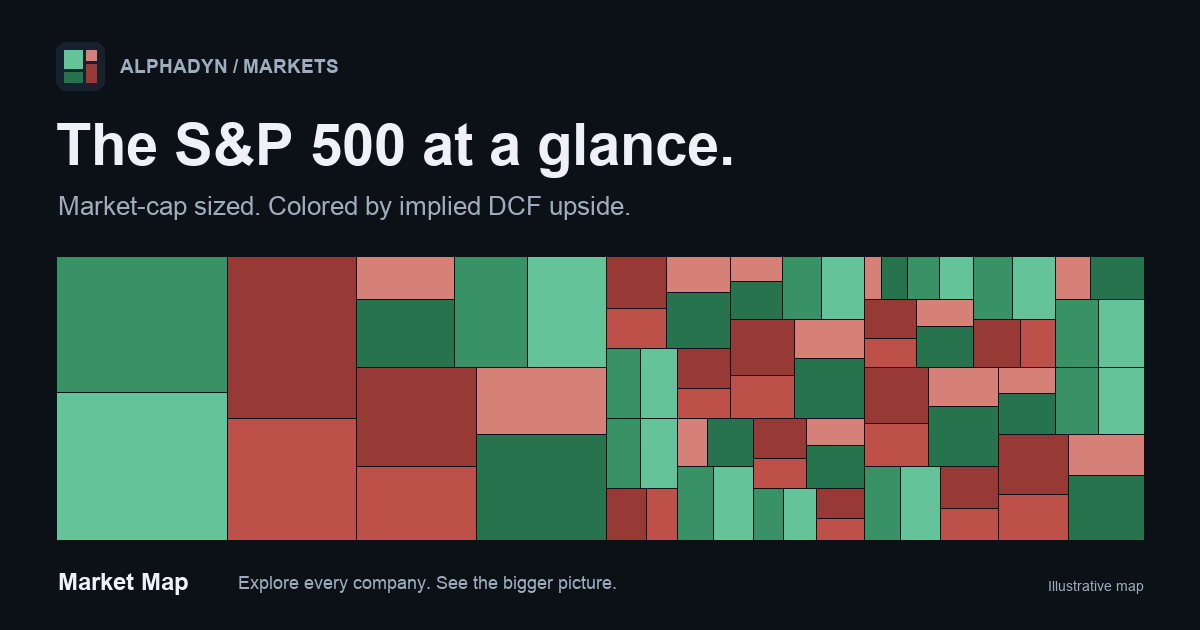
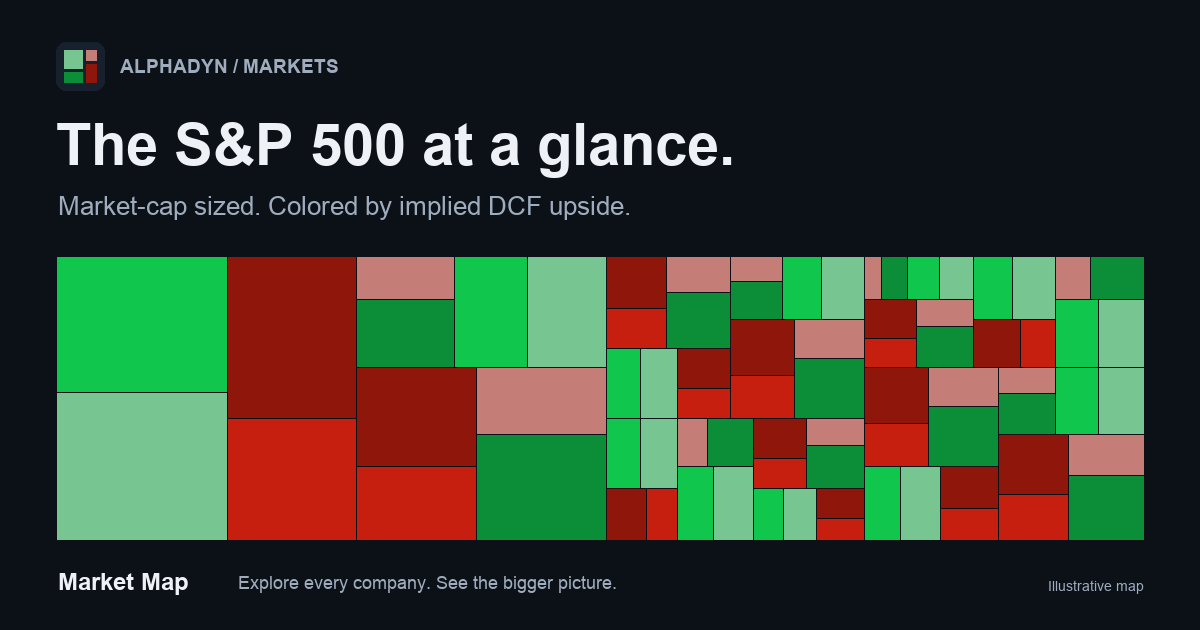
Improve market map readability and details

Changed region(s): [[0.0308, 0.3921, 0.9558, 0.8746], [0.0617, 0.0905, 0.0925, 0.1508]]

diff --git a/market-map/app.js b/market-map/app.js
@@ -1,5 +1,8 @@
-import { prepareMarket, treemap, upsideColor, matches, money, percent } from './model.js';
-import { discountedCashFlowUpside, discountedCashFlowValue, marketCapDescription } from '../market-insights/ranking.js';
+import { prepareMarket, treemap, upsideColor, upsideTextColor, matches, money, percent } from './model.js';
+import {
+  discountedCashFlowUpside, discountedCashFlowValue, formatMoney, formatPE,
+  getSecurityPE, marketCapDescription,
+} from '../market-insights/ranking.js';
 
 const $ = (id) => document.getElementById(id);
 let market;
@@ -29,6 +32,16 @@ function inspect(company) {
   for (const button of buttons) button.classList.toggle('selected', button.dataset.id === company.id);
 }
 
+function clearInspection() {
+  selected = undefined;
+  $('selected-symbol').textContent = 'Explore the market';
+  $('selected-name').textContent = 'Hover, focus, or tap a company';
+  $('selected-cap').textContent = '--';
+  $('selected-upside').textContent = '--';
+  $('details').disabled = true;
+  for (const button of buttons) button.classList.remove('selected');
+}
+
 function showDetails(company) {
   inspect(company);
   const facts = node('dl');
@@ -39,6 +52,8 @@ function showDetails(company) {
     ['Share of mapped market', company.marketCap ? percent(company.marketCap / market.total) : 'Unavailable'],
     ['Representative ticker', company.id],
     ['Price', money(company.representative.price)],
+    ['Net income (TTM)', formatMoney(company.representative.net_income)],
+    ['P/E ratio (TTM)', formatPE(getSecurityPE(company.representative))],
     ['DCF value / share', money(company.fairValue)],
     ['Implied upside / downside', percent(company.upside)],
   ]) facts.append(node('dt', label), node('dd', value));
@@ -46,7 +61,7 @@ function showDetails(company) {
   if (company.classes.length > 1) {
     content.push(node('p', 'Share classes are combined to avoid counting the company twice. Area and color use the first listed class with a market cap, matching Market Insights. These are company-wide caps, not separate share-class valuations.'));
     for (const stock of company.classes) {
-      content.push(node('p', `${stock.symbol}: price ${money(stock.price)}, DCF ${money(discountedCashFlowValue(stock))}, implied upside ${percent(discountedCashFlowUpside(stock))}.`));
+      content.push(node('p', `${stock.symbol}: price ${money(stock.price)}, net income (TTM) ${formatMoney(stock.net_income)}, P/E ${formatPE(getSecurityPE(stock))}, DCF ${money(discountedCashFlowValue(stock))}, implied upside ${percent(discountedCashFlowUpside(stock))}.`));
     }
   }
   if (company.upside === null) content.push(node('p', 'DCF is unavailable when earnings are non-positive or earnings, price, or market cap are missing. No upside or downside is assumed.'));
@@ -101,7 +116,7 @@ function render() {
     button.type = 'button';
     button.dataset.id = company.id;
     button.style.background = upsideColor(company.upside);
-    button.classList.toggle('dark', company.upside === null || Math.abs(company.upside) > .25);
+    button.classList.toggle('dark', upsideTextColor(company.upside) === '#ffffff');
     const description = `${company.symbols.join(' / ')}: ${company.name}. Market cap ${money(company.marketCap)}. Implied upside ${percent(company.upside)}.`;
     button.setAttribute('aria-label', description);
     button.title = description;
@@ -153,6 +168,9 @@ async function load() {
 }
 
 $('search').addEventListener('input', search);
+$('map').addEventListener('pointerleave', () => {
+  if (!$('map').contains(document.activeElement)) clearInspection();
+});
 $('search').addEventListener('keydown', (event) => {
   if (event.key === 'Enter') {
     event.preventDefault();
@@ -180,7 +198,7 @@ $('coverage').addEventListener('click', () => {
 $('about').addEventListener('click', () => {
   showDialog('One market. Every company.', [
     node('p', 'Each rectangle occupies its company market cap divided by the combined mapped market cap. Search highlights matches without changing any area. Tiny labels scale down to preserve truthful proportions: hover or focus for the bottom readout, tap for full details, or search and press Enter.'),
-    node('p', 'Green means positive implied upside; red means negative upside (downside). Larger magnitudes are progressively darker. Gray means DCF is unavailable; zero upside is neutral. The color scale is continuous and does not cap extreme values.'),
+    node('p', 'Green means positive implied upside; red means negative upside (downside). Larger magnitudes are progressively darker and more saturated. Gray means DCF is unavailable; zero upside is neutral. The color scale continues beyond +/-100% and does not cap extreme values.'),
     node('p', 'Implied upside = (DCF value - price) / price. The shared Market Insights model projects positive TTM net income for five years, caps earnings growth at +/-5%, discounts at 10%, and uses 2.5% terminal growth. Shares are estimated from market cap / price.'),
     node('p', 'This simplified earnings-based DCF is not a full free-cash-flow valuation, analyst target, or investment recommendation. Company-wide caps are counted once by SEC CIK; combined tiles list every constituent share class.'),
     node('p', 'Sources: S&P 500 constituents from datasets/s-and-p-500-companies, Nasdaq market caps, Yahoo Finance closing prices, and SEC EDGAR earnings via the Market Insights snapshot. No synthetic data or estimated tile areas.'),

diff --git a/market-map/styles.css b/market-map/styles.css
@@ -30,7 +30,7 @@ input::placeholder { color: #8d9bac; }
 #tiles { position: absolute; inset: 0; overflow: hidden; }
 #message { position: absolute; inset: 0; display: grid; align-content: center; justify-items: center; gap: 16px; padding: 20px; text-align: center; color: #a4b0bf; font-size: 14px; }
 #message[hidden] { display: none; }
-.tile { position: absolute; display: flex; flex-direction: column; justify-content: center; align-items: center; gap: 2px; padding: 0; border: 0; border-radius: 0; outline-offset: -2px; box-shadow: inset 0 0 0 .5px #0c1118; overflow: hidden; color: #091510; line-height: 1.15; font-variant-numeric: tabular-nums; }
+.tile { position: absolute; display: flex; flex-direction: column; justify-content: center; align-items: center; gap: 2px; padding: 0; border: 0; border-radius: 0; outline-offset: -2px; box-shadow: inset 0 0 0 .5px #0c1118; overflow: hidden; color: #000; line-height: 1.15; font-variant-numeric: tabular-nums; }
 .tile.dark { color: #fff; }
 .tile:hover, .tile:focus-visible, .tile.selected { box-shadow: inset 0 0 0 2px #f4ffc7; z-index: 1; }
 .tile strong, .tile span { white-space: nowrap; max-width: 100%; }
@@ -45,8 +45,8 @@ input::placeholder { color: #8d9bac; }
 footer { display: flex; justify-content: space-between; align-items: center; gap: 10px; flex-shrink: 0; }
 footer p { color: #8d9bac; font-size: 10px; margin: 0; }
 .legend { display: flex; align-items: center; gap: 6px; font-size: 9px; color: #a4b0bf; }
-.legend i { width: 70px; height: 7px; background: linear-gradient(90deg, hsl(3 54% 30.44%), hsl(3 54% 66%)); }
-.legend i:nth-of-type(2) { background: linear-gradient(90deg, hsl(151 54% 66%), hsl(151 54% 30.44%)); }
+.legend i { width: 70px; height: 7px; background: linear-gradient(90deg, hsl(5 85% 30%), #8a8a8a); }
+.legend i:nth-of-type(2) { background: linear-gradient(90deg, #8a8a8a, hsl(140 85% 30%)); }
 .legend b { width: 8px; height: 8px; background: #454d5c; margin-left: 8px; }
 .status { color: #d5bd85; font-size: 10px; margin: 0; flex-shrink: 0; }
 .status:empty { display: none; }

diff --git a/market-map/model.js b/market-map/model.js
@@ -44,13 +44,51 @@ export function prepareMarket(payload) {
   };
 }
 
+function upsideColorComponents(upside) {
+  const strength = Math.abs(upside) / (Math.abs(upside) + 0.35);
+  return {
+    hue: upside > 0 ? 140 : 5,
+    saturation: 40 + 45 * strength,
+    lightness: 62 - 32 * strength,
+  };
+}
+
+function hslToRgb({ hue, saturation, lightness }) {
+  const h = hue / 60;
+  const s = saturation / 100;
+  const l = lightness / 100;
+  const chroma = (1 - Math.abs(2 * l - 1)) * s;
+  const x = chroma * (1 - Math.abs(h % 2 - 1));
+  const [red, green, blue] = h < 1 ? [chroma, x, 0]
+    : h < 2 ? [x, chroma, 0]
+      : h < 3 ? [0, chroma, x]
+        : h < 4 ? [0, x, chroma]
+          : h < 5 ? [x, 0, chroma]
+            : [chroma, 0, x];
+  const match = l - chroma / 2;
+  return [red + match, green + match, blue + match];
+}
+
+function relativeLuminance(rgb) {
+  const linear = rgb.map((channel) => channel <= 0.04045
+    ? channel / 12.92 : ((channel + 0.055) / 1.055) ** 2.4);
+  return 0.2126 * linear[0] + 0.7152 * linear[1] + 0.0722 * linear[2];
+}
+
 export function upsideColor(upside) {
   if (!Number.isFinite(upside)) return '#454d5c';
-  if (upside === 0) return '#727985';
-  // An asymptotic scale stays strictly darker as magnitude grows, without clipping outliers.
-  const strength = Math.abs(upside) / (Math.abs(upside) + 0.35);
-  const lightness = 66 - 48 * strength;
-  return `hsl(${upside > 0 ? 151 : 3} 54% ${lightness}%)`;
+  if (upside === 0) return '#8a8a8a';
+  const { hue, saturation, lightness } = upsideColorComponents(upside);
+  return `hsl(${hue} ${saturation}% ${lightness}%)`;
+}
+
+export function upsideTextColor(upside) {
+  if (!Number.isFinite(upside)) return '#ffffff';
+  const background = relativeLuminance(hslToRgb(upsideColorComponents(upside)));
+  const darkText = 0;
+  const whiteContrast = 1.05 / (background + 0.05);
+  const darkContrast = (background + 0.05) / (darkText + 0.05);
+  return whiteContrast >= darkContrast ? '#ffffff' : '#000000';
 }
 
 export function matches(company, query) {

diff --git a/market-map/model.test.js b/market-map/model.test.js
@@ -1,6 +1,6 @@
 import test from 'node:test';
 import assert from 'node:assert/strict';
-import { prepareMarket, treemap, upsideColor, matches, money, percent } from './model.js';
+import { prepareMarket, treemap, upsideColor, upsideTextColor, matches, money, percent } from './model.js';
 
 const stock = (symbol, cap, extra = {}) => ({
   symbol, name: `${symbol} company`, market_cap: cap, price: 100,
@@ -43,18 +43,22 @@ test('missing/nonpositive earnings remain neutral, not a fabricated downside', (
     const company = prepareMarket({ securities: [stock('A', 100, { net_income: income })] }).mapped[0];
     assert.equal(company.upside, null);
     assert.equal(upsideColor(company.upside), '#454d5c');
+    assert.equal(upsideTextColor(company.upside), '#ffffff');
   }
 });
 
 test('colors retain sign and strictly darken even for extreme upside', () => {
   const lightness = (color) => Number(color.match(/ ([\d.]+)%\)$/)[1]);
   assert.notEqual(upsideColor(0), upsideColor(null));
-  for (const sign of [-1, 1]) {
+  assert.equal(upsideColor(0), '#8a8a8a');
+  for (const [sign, hue] of [[-1, 5], [1, 140]]) {
     const colors = [.01, .5, 1, 5, 100].map((value) => upsideColor(sign * value));
-    assert.ok(colors.every((color) => color.startsWith(`hsl(${sign > 0 ? 151 : 3} `)));
+    assert.ok(colors.every((color) => color.startsWith(`hsl(${hue} `)));
     for (let index = 1; index < colors.length; index += 1) {
       assert.ok(lightness(colors[index]) < lightness(colors[index - 1]));
     }
+    assert.equal(upsideTextColor(sign * .01), '#000000');
+    assert.equal(upsideTextColor(sign * 100), '#ffffff');
   }
 });
 

diff --git a/market-map/index.html b/market-map/index.html
@@ -53,7 +53,7 @@
       <button id="details" type="button" disabled>Details</button>
     </section>
     <footer>
-      <div class="legend" aria-label="Color legend"><span>-100%</span><i></i><span>0</span><i></i><span>+100%</span><b></b><span>N/A</span></div>
+      <div class="legend" aria-label="Color legend; darker and more saturated means larger upside or downside; the scale continues beyond 100 percent"><span>≤−100%</span><i></i><span>0</span><i></i><span>≥+100%</span><b></b><span>N/A</span></div>
       <p>DCF estimate, not a price forecast. <span class="desktop-note">Select any tile for details.</span></p>
     </footer>
     <p id="status" role="status" class="status"></p>

diff --git a/market-map/generate_social_preview.py b/market-map/generate_social_preview.py
@@ -12,7 +12,7 @@ HERE = Path(__file__).resolve().parent
 BACKGROUND = "#0c1118"
 TEXT = "#eef2f6"
 MUTED = "#9eacbd"
-COLORS = ("#26734e", "#389265", "#64c398", "#973a35", "#bd5149", "#d68178")
+COLORS = ("#0b8e37", "#10c64d", "#77c591", "#8e160b", "#c61f10", "#c57e77")
 
 
 def font(size, bold=False):
@@ -31,8 +31,8 @@ def generate(destination=HERE / "social-preview.png"):
     draw = ImageDraw.Draw(image)
     draw.rounded_rectangle((56, 42, 104, 90), radius=10, fill="#17212d")
     for box, color in (
-        ((64, 50, 82, 68), "#64c398"), ((64, 72, 82, 82), "#26734e"),
-        ((86, 50, 96, 60), "#d68178"), ((86, 64, 96, 82), "#973a35"),
+        ((64, 50, 82, 68), "#77c591"), ((64, 72, 82, 82), "#0b8e37"),
+        ((86, 50, 96, 60), "#c57e77"), ((86, 64, 96, 82), "#8e160b"),
     ):
         draw.rectangle(box, fill=color)
     draw.text((120, 55), "ALPHADYN / MARKETS", font=font(19, True), fill=MUTED)

diff --git a/market-map/README.md b/market-map/README.md
@@ -1,6 +1,6 @@
 # Market Map
 
-A viewport-filling S&P 500 treemap. Rectangle area is proportional to company market capitalization. Positive implied DCF upside is green, negative upside is red, and larger magnitudes are progressively darker on a continuous, unclipped scale. Gray means unavailable valuation; zero is neutral.
+A viewport-filling S&P 500 treemap. Rectangle area is proportional to company market capitalization. Positive implied DCF upside is green, negative upside is red, and larger magnitudes are progressively darker and more saturated on a continuous, unclipped scale. Gray means unavailable valuation; zero is neutral.
 
 ## Run
 
